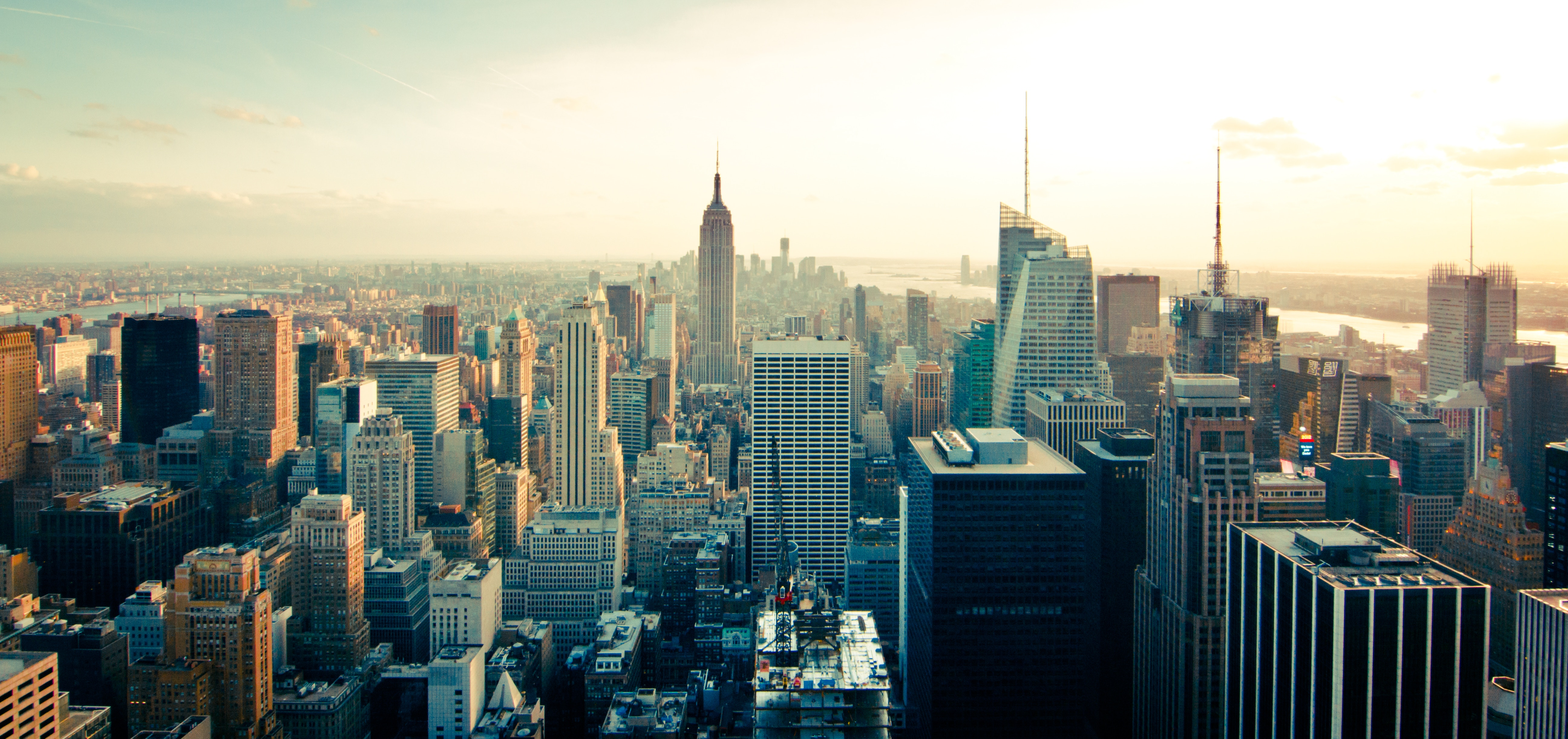
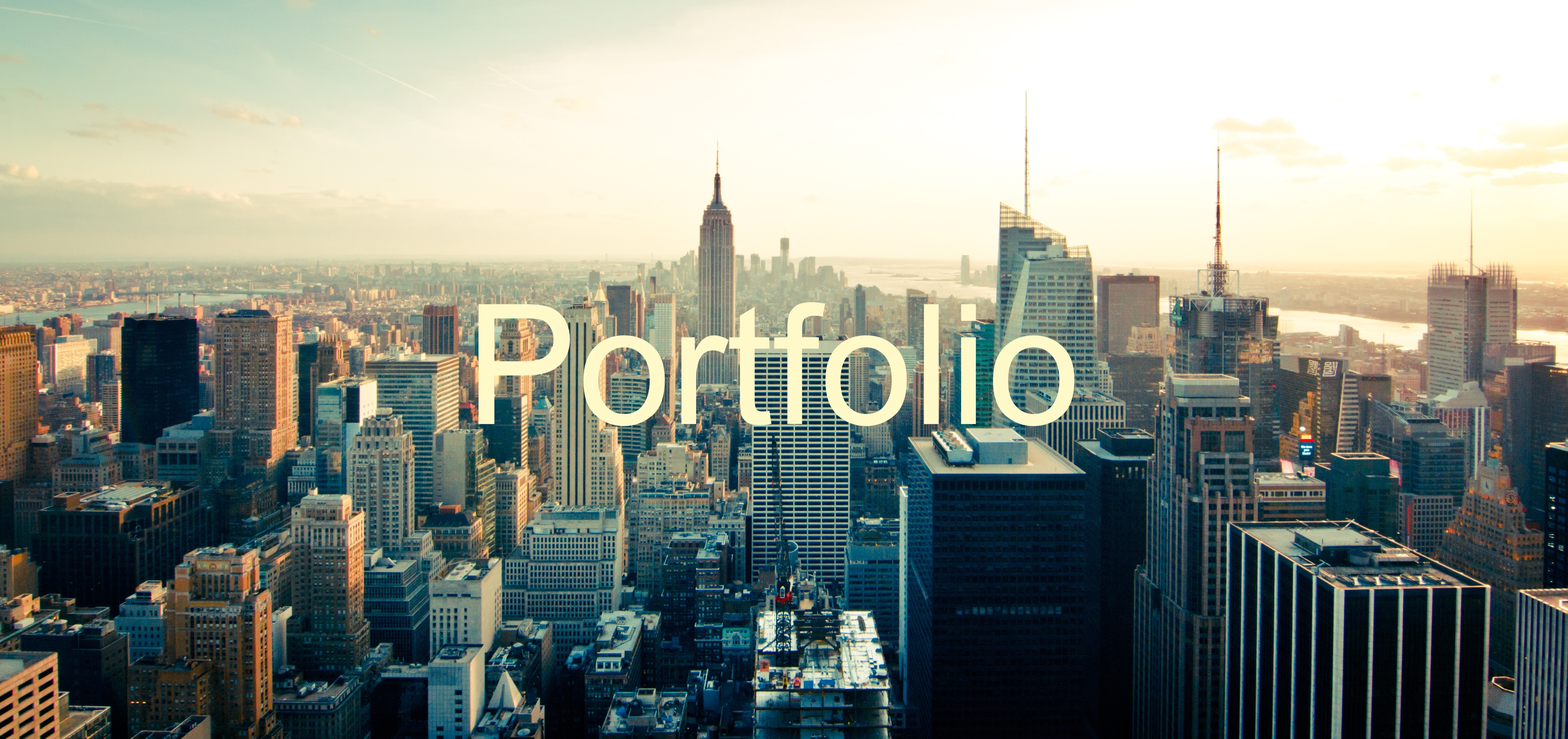
added chevron to portfolio divider

Changed region(s): [[0.2796, 0.4043, 0.6834, 0.5908]]

diff --git a/src/Components/PageDividers/BannerImage.js b/src/Components/PageDividers/BannerImage.js
@@ -1,6 +1,5 @@
 import React from "react";
 import image from "./../photos/top-photo.jpg";
-import { Icon } from "semantic-ui-react";
 import MenuList from "../Menu/MenuList.js";
 
 class BannerImage extends React.Component {
@@ -22,26 +21,19 @@ class BannerImage extends React.Component {
         ) : null}
         <img src={image} alt="Lindsay Criswell" className="responsive" />
         <a href="#about-me">
-          <Icon
-            className="yellowish bottom-middle"
-            name="chevron circle down"
-            size="big"
-          />
+          <i className="chevron circle down big icon yellowish bottom-middle" />
         </a>
         {this.state.activeMenu ? (
           <div>
-            <Icon
-              className="top-right white"
-              name="close"
+            <i
+              className="close icon top-right white"
               onClick={this.toggleMenu}
             />
           </div>
         ) : (
           <div>
-            <Icon
-              className="top-right yellowish"
-              name="sidebar"
-              size="big"
+            <i
+              className="sidebar big icon top-right yellowish"
               onClick={this.toggleMenu}
             />
           </div>
@@ -52,3 +44,5 @@ class BannerImage extends React.Component {
 }
 
 export default BannerImage;
+
+// Photo font: Arial Unicode MS, 150pt

diff --git a/src/Components/PageDividers/PortfolioDivider.js b/src/Components/PageDividers/PortfolioDivider.js
@@ -2,7 +2,14 @@ import React from "react";
 import image from "./../photos/nyc.jpg";
 
 const PortfolioDivider = () => {
-  return <img src={image} alt="Portfolio" className="responsive" />;
+  return (
+    <div>
+      <img src={image} alt="Portfolio" className="responsive" />
+      <a href="#portfolio">
+        <i className="chevron circle down big icon whitish bottom-middle" />
+      </a>
+    </div>
+  );
 };
 
 export default PortfolioDivider;

diff --git a/src/AboutMe.js b/src/AboutMe.js
@@ -1,11 +1,10 @@
 import React from "react";
-import { Icon } from "semantic-ui-react";
 
 const AboutMe = () => {
   return (
     <div id="about-me" className="section-div">
       <h3>ABOUT ME</h3>
-      <Icon name="anchor" />
+      <i className="anchor icon" />
       <p className="margin-top">
         I am a full stack web developer dedicated to creating innovative web
         experiences that help users engage with their passions.

diff --git a/src/App.css b/src/App.css
@@ -34,6 +34,10 @@ body {
   color: rgb(255, 221, 164);
 }
 
+.whitish {
+  color: rgb(255, 248, 194);
+}
+
 .section-div {
   margin: 3%;
 }
